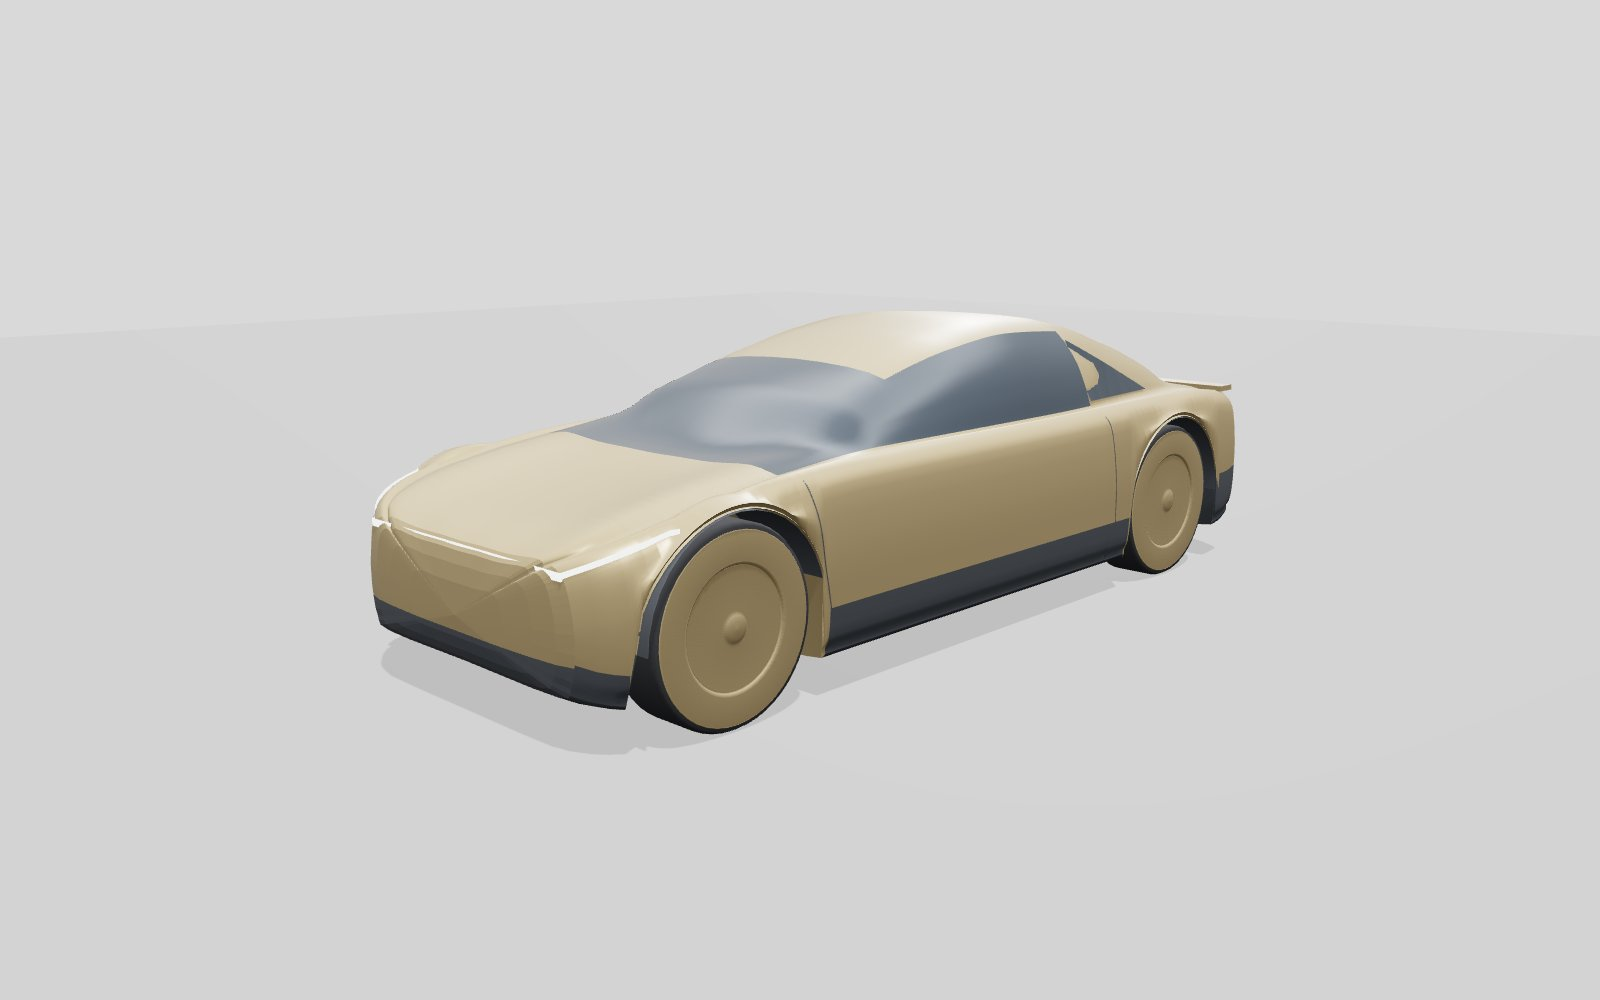
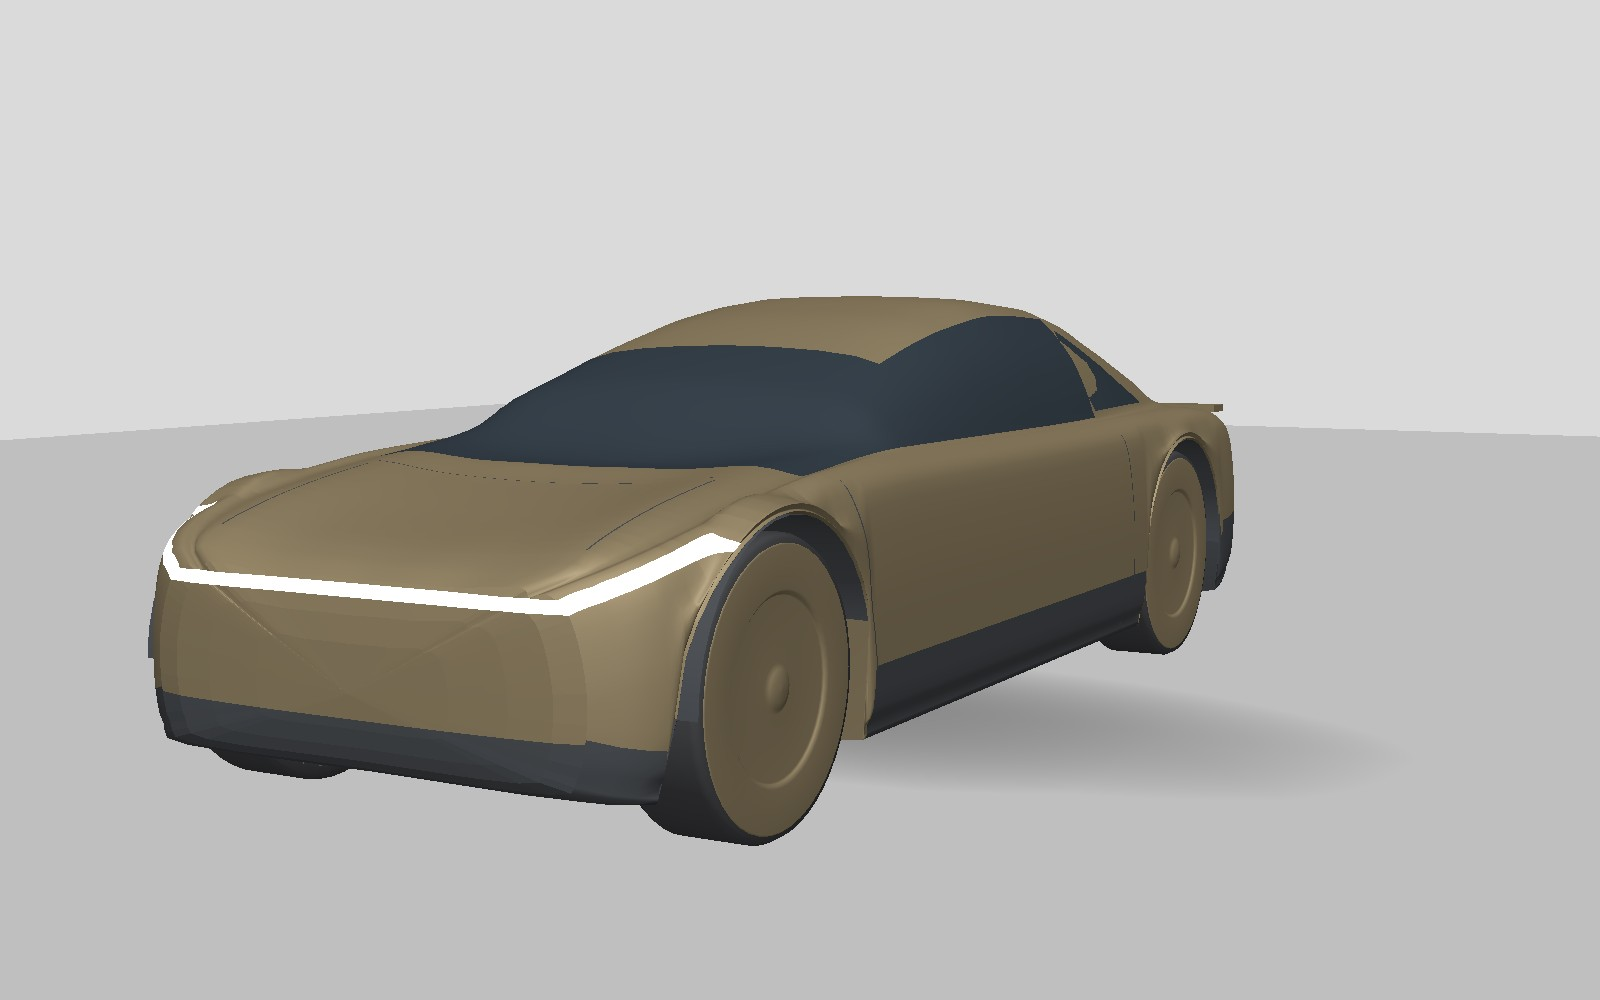
feat(world): matte Cybercab paint and hood and fender shut lines (#107)
Champagne body and covers lose the clearcoat hotspot. The hood shut
runs crest to crest on the lofted ring, and each front fender has a
trim shut just outside the paint. The front light bar is offset 3 mm
so its triangle interiors stay outside the shell.

Changed region(s): [[0.0938, 0.279, 0.875, 0.868]]

diff --git a/jevpilot_vision/web/semif-world/cybercab.js b/jevpilot_vision/web/semif-world/cybercab.js
@@ -1,6 +1,6 @@
-// The Cybercab-style hero (#90), rebuilt from photos of the 2024 show car (Wikimedia Commons, see
-// docs/visual/cybercab/README.md) with the img2threejs workflow: analysis, spec, passes reviewed
-// against the references. No Tesla emblems or lettering.
+// The Cybercab-style hero (#90, finish pass #107), rebuilt from photos of the 2024 show car
+// (Wikimedia Commons, see docs/visual/cybercab/README.md) with the img2threejs workflow: analysis,
+// spec, passes reviewed against the references. No Tesla emblems or lettering.
 //
 // One lofted shell carries the whole body: every section is a custom outline (sill, a side drawn in
 // toward the shoulder, then either the hood -- round fender crests, a valley between -- or a
@@ -232,6 +232,8 @@ function shell(m) {
   parts.add(m.clad, caps.clad);
   parts.add(m.quarter, quarterWindow(rings, zs));
   parts.add(m.well, doorLines(rings, zs));
+  parts.add(m.well, hoodSeam(rings, zs));
+  parts.add(m.well, fenderSeams());
   parts.add(m.lens, frontLightBar(rings, zs));
   return parts;
 }
@@ -261,21 +263,175 @@ function outerAt(ring, y, limit = Infinity) {
   return best;
 }
 
-// The front light bar, laid on the shell: just under the hood's leading edge across the domed nose
-// and along each fender's side as the edge rises toward the windscreen.
-function frontLightBar(rings, zs) {
-  const barY = (z) => shoulder(z) - 0.03;
-  const right = [];
-  for (let i = 0; i < zs.length && zs[i] < -1.95; i++) {
-    const x = outerAt(rings[i], barY(zs[i]));
-    if (x !== null) right.push([x + 0.007, barY(zs[i]), zs[i]]);
+// z of the nose-cap triangle under (x, y). Same rows as the cap in shell(), so the bar tracks the
+// mesh rather than the quarter circle the rows only sample. Forward is -z. Null off the cap.
+function capTriangles(ring, z0) {
+  const ys = ring.map((p) => p[1]);
+  const cy = Math.min(...ys) + 0.4 * (Math.max(...ys) - Math.min(...ys));
+  const dz = -(L2 + NOSE0);
+  const rows = [1, 0.88, 0.7, 0.45].map((k) => {
+    const depth = Math.sqrt(Math.max(0, 1 - k * k));
+    return ring.map(([rx, ry]) => [rx * k, cy + (ry - cy) * k, z0 + dz * depth]);
+  });
+  const centre = [0, cy, z0 + dz];
+  const tris = [];
+  for (let k = 0; k < ring.length; k++) {
+    const k1 = (k + 1) % ring.length;
+    for (let r = 0; r < rows.length - 1; r++) {
+      tris.push([rows[r][k], rows[r][k1], rows[r + 1][k]], [rows[r][k1], rows[r + 1][k1], rows[r + 1][k]]);
+    }
+    tris.push([rows[rows.length - 1][k], rows[rows.length - 1][k1], centre]);
   }
-  if (!right.length) return { positions: [], index: [] };
-  const [x0, y0] = right[0];
+  return tris;
+}
+
+// Most-forward z of the cap under (x, y). Null when (x, y) misses every cap triangle.
+function capForwardZ(tris, x, y) {
+  let skin = null;
+  for (const [a, b, c] of tris) {
+    const den = (b[1] - c[1]) * (a[0] - c[0]) + (c[0] - b[0]) * (a[1] - c[1]);
+    if (Math.abs(den) < 1e-10) continue;
+    const w0 = ((b[1] - c[1]) * (x - c[0]) + (c[0] - b[0]) * (y - c[1])) / den;
+    const w1 = ((c[1] - a[1]) * (x - c[0]) + (a[0] - c[0]) * (y - c[1])) / den;
+    const w2 = 1 - w0 - w1;
+    if (w0 < -1e-3 || w1 < -1e-3 || w2 < -1e-3) continue;
+    const z = w0 * a[2] + w1 * b[2] + w2 * c[2];
+    if (skin === null || z < skin) skin = z;
+  }
+  return skin;
+}
+
+// The front light bar. The offset is 3 mm: 2 mm left the tightest quad interiors inside the lofted
+// face, because the sampled ring sits inside that face. Stations are 3 mm apart so a quad does not
+// cut the fender's plan curve. A flat offset from NOSE0 sinks the nose into the cap.
+function frontLightBar(rings, zs) {
+  const h = 0.035, gap = 0.003, rows = 24;
+  const barY = (z) => shoulder(z) - 0.03;
+  const ringAt = (z) => {
+    let i = 0;
+    while (i < zs.length - 2 && zs[i + 1] < z) i++;
+    const t = Math.min(1, Math.max(0, (z - zs[i]) / (zs[i + 1] - zs[i] || 1)));
+    return rings[i].map((p, k) => {
+      const q = rings[i + 1][k];
+      return [p[0] + (q[0] - p[0]) * t, p[1] + (q[1] - p[1]) * t];
+    });
+  };
+  const columnAt = (z) => {
+    const ring = ringAt(z), y = barY(z), col = [];
+    for (let k = 0; k <= rows; k++) {
+      const yy = y - h / 2 + (h * k) / rows;
+      const x = outerAt(ring, yy);
+      if (x === null) return null;
+      col.push([x + gap, yy, z]);
+    }
+    return col;
+  };
+  const right = [];
+  for (let z = -1.96; z > zs[0] + 0.001; z -= 0.003) {
+    const col = columnAt(z);
+    if (col) right.push(col);
+  }
+  const nose = columnAt(zs[0]);
+  if (!nose) return { positions: [], index: [] };
+  right.push(nose);
+  const tris = capTriangles(rings[0], zs[0]);
+  const skin = nose.map((p) => [p[0] - gap, p[1]]);
+  const span = Math.max(...skin.map((p) => p[0]));
+  const steps = Math.max(1, Math.ceil((span * 2) / 0.003));
   const across = [];
-  for (let s = 1; s > -1; s -= 0.1) across.push([s * x0, y0, NOSE0 - 0.012]);
-  const left = right.map(([x, y, z]) => [-x, y, z]);
-  return strip([...right.slice().reverse(), ...across, ...left], 0.035);
+  for (let s = 0; s <= steps; s++) {
+    const sign = Math.max(-0.998, Math.min(0.998, 1 - 2 * (s / steps)));
+    const col = [];
+    let ok = true;
+    for (const [sx, y] of skin) {
+      const x = sx * sign;
+      const z = capForwardZ(tris, x, y);
+      if (z === null) { ok = false; break; }
+      col.push([x, y, z - gap]);
+    }
+    if (ok) across.push(col);
+  }
+  const left = [...right].reverse().map((col) => col.map((p) => [-p[0], p[1], p[2]]));
+  const columns = [...right, ...across, ...left];
+  const positions = [], index = [], n = rows + 1;
+  columns.forEach((col, i) => {
+    for (const p of col) positions.push(...p);
+    if (!i) return;
+    for (let k = 0; k < rows; k++) {
+      const a = (i - 1) * n + k, b = i * n + k;
+      index.push(a, b, a + 1, b, b + 1, a + 1);
+    }
+  });
+  return { positions, index };
+}
+
+// A 6 mm dark band through samples, `across` a unit vector in the band's width, lifted 2 mm off
+// the shell so it reads as a shut line rather than z-fighting the paint.
+function seam(samples, across) {
+  const positions = [], index = [], w = 0.003, lift = 0.002;
+  samples.forEach(([x, y, z], i) => {
+    positions.push(
+      x + across[0] * w, y + across[1] * w + lift, z + across[2] * w,
+      x - across[0] * w, y - across[1] * w + lift, z - across[2] * w,
+    );
+    if (i) {
+      const a = (i - 1) * 2, b = i * 2;
+      index.push(a, b, a + 1, b, b + 1, a + 1);
+    }
+  });
+  return { positions, index };
+}
+
+// The hood shut: crest to crest on the lofted ring, just ahead of the windscreen. The coarse
+// outline sits off that ring (inside it near the crests, above it in the valley).
+function hoodSeam(rings, zs) {
+  const z = -1.52;
+  let i = 0;
+  while (i < zs.length - 2 && zs[i + 1] < z) i++;
+  const t = Math.min(1, Math.max(0, (z - zs[i]) / (zs[i + 1] - zs[i] || 1)));
+  const ring = rings[i].map((p, k) => {
+    const q = rings[i + 1][k];
+    return [p[0] + (q[0] - p[0]) * t, p[1] + (q[1] - p[1]) * t];
+  });
+  const mid = ring.length / 2; // top centre; the right half is the first half of the ring
+  let crest = 0;
+  for (let k = 1; k <= mid; k++) if (ring[k][1] > ring[crest][1]) crest = k;
+  const right = [];
+  for (let k = crest; k < mid; k++) {
+    for (let s = 0; s < 4; s++) {
+      const u = s / 4;
+      right.push([
+        ring[k][0] + (ring[k + 1][0] - ring[k][0]) * u,
+        ring[k][1] + (ring[k + 1][1] - ring[k][1]) * u,
+        z,
+      ]);
+    }
+  }
+  right.push([ring[mid][0], ring[mid][1], z]);
+  // right runs from the right crest to the centre. Mirror it, drop the shared centre, then
+  // walk back through the centre to the right crest. Reversing the mirror first jumps the valley.
+  const left = right.slice(0, -1).map(([x, y, zz]) => [-x, y, zz]);
+  const full = left.concat([...right].reverse());
+  return seam(full, [0, 0, 1]);
+}
+
+// The fender shut: along each front crest, from the nose of the arch back to the hood shut.
+function fenderSeams() {
+  const positions = [], index = [];
+  for (const side of [1, -1]) {
+    const samples = [];
+    for (let i = 0; i <= 18; i++) {
+      const z = -2.18 + (i * 0.62) / 18; // -2.18 .. -1.56, clear of the hood shut at -1.52
+      const crest = Math.min(0.62, half(z) - 0.2);
+      // The outline's crest is shoulder + 12 mm. Sampling the shoulder puts the band inside the paint.
+      samples.push([side * crest, shoulder(z) + 0.012, z]);
+    }
+    const part = seam(samples, [side, 0, 0]);
+    const base = positions.length / 3;
+    positions.push(...part.positions);
+    for (const i of part.index) index.push(base + i);
+  }
+  return { positions, index };
 }
 
 // The door shut lines: a 6 mm dark band on each side, at the door's front edge (leaning back at
@@ -405,8 +561,12 @@ function wheel(name, x, z, front, m) {
 
 function mats() {
   return {
-    paint: physical(C.champagne, { metalness: 0.55, roughness: 0.4, clearcoat: 0.2, clearcoatRoughness: 0.35 }),
-    cover: physical(C.champagne, { metalness: 0.5, roughness: 0.46, clearcoat: 0.1, clearcoatRoughness: 0.4, side: 2 }),
+    // Matte champagne (#107). Painted metal in the img2threejs material record is a dielectric
+    // coat (roughness up to 0.7, clearcoat free to go to 0). This host still classifies "the paint"
+    // as metalness >= 0.5, so the flake stays and the gloss hotspot is what goes: roughness at the
+    // top of that range, clearcoat almost off. The colour stays PALETTE.car.champagne.
+    paint: physical(C.champagne, { metalness: 0.55, roughness: 0.68, clearcoat: 0.04, clearcoatRoughness: 0.35 }),
+    cover: physical(C.champagne, { metalness: 0.5, roughness: 0.7, clearcoat: 0.04, clearcoatRoughness: 0.35, side: 2 }),
     glass: physical(C.glass, { name: "Glass", metalness: 0.3, roughness: 0.05, clearcoat: 1 }),
     quarter: physical(C.glass, { metalness: 0.35, roughness: 0.08, clearcoat: 1, side: 2 }),
     clad: material(C.trim, { roughness: 0.62, metalness: 0.1 }),

diff --git a/jevpilot_vision/web/semif-world/kit.js b/jevpilot_vision/web/semif-world/kit.js
@@ -51,7 +51,7 @@ export const PALETTE = {
     leather: "#7a6458",
     chrome: "#c9cdd2",
     plate: "#e7e4dc",
-    // The Cybercab (#90): satin champagne paint. Its glass and cladding use `glass` and `trim`:
+    // The Cybercab (#90, #107): matte champagne paint. Its glass and cladding use `glass` and `trim`:
     // darker reads as a pedestrian in the camera masks until #30 retires them.
     champagne: "#c9b48a",
   },

diff --git a/tests/test_vehicles.py b/tests/test_vehicles.py
@@ -187,3 +187,87 @@ def test_issue90_the_cybercab_has_big_wheels_at_the_corners_and_a_painted_roof()
     assert got["maxZ"] - got["shellTail"] >= 0.04, "the duckbill lip overhangs the tail face"
     assert got["bar"] and got["gap"] < 0.03, "the light bar lies on the body, not in the air"
 
+
+def test_issue107_the_paint_is_matte_and_the_hood_and_fenders_are_split():
+    """#107: matte paint, and the shut lines and the light bar sit just outside the paint faces.
+
+    Distance is to the containing face, including the interior of each light-bar triangle and
+    each hood-shut triangle. A vertex can sit outside the paint while the quad between two
+    stations cuts back through it.
+    """
+    got = _render(
+        _BOX
+        + "const K = await mod('kit.js'); const car = V.buildHero('cybercab');"
+        "const pieces = all(car).filter((n) => n.geometry && n.geometry.attributes.position);"
+        "const colour = (n) => { const c = n.material && n.material.color; return typeof c === 'string' ? c : c && c.hex; };"
+        "const body = all(car).find((n) => n.name === 'body');"
+        "const faces = body.children.filter((n) => colour(n) === K.PALETTE.car.champagne).flatMap((n) => {"
+        "  const p = n.geometry.attributes.position.array; const idx = n.geometry.index; const ids = idx ? Array.from(idx.array || idx) : null; const o = [];"
+        "  const push = (i0, i1, i2) => o.push([[p[3*i0], p[3*i0+1], p[3*i0+2]], [p[3*i1], p[3*i1+1], p[3*i1+2]], [p[3*i2], p[3*i2+1], p[3*i2+2]]]);"
+        "  if (ids) for (let i = 0; i < ids.length; i += 3) push(ids[i], ids[i+1], ids[i+2]); else for (let v = 0; v < p.length / 3; v += 3) push(v, v+1, v+2); return o; });"
+        "const front = faces.filter((t) => Math.min(t[0][2], t[1][2], t[2][2]) < -1.85);"
+        "const verts = (hex) => pieces.filter((n) => colour(n) === hex).flatMap((n) => { const p = n.geometry.attributes.position.array, o = [];"
+        "  for (let i = 0; i < p.length; i += 3) o.push([p[i], p[i+1], p[i+2]]); return o; });"
+        "const bary = (u, v, a0, a1, b0, b1, c0, c1) => { const den = (b1-c1)*(a0-c0)+(c0-b0)*(a1-c1); if (Math.abs(den) < 1e-10) return null;"
+        "  const w0 = ((b1-c1)*(u-c0)+(c0-b0)*(v-c1))/den, w1 = ((c1-a1)*(u-c0)+(a0-c0)*(v-c1))/den, w2 = 1-w0-w1;"
+        "  return (w0 < -1e-3 || w1 < -1e-3 || w2 < -1e-3) ? null : [w0, w1, w2]; };"
+        "const skinY = (p) => { let best = null; for (const [a,b,c] of faces) {"
+        "  if (a[2] < -2.4 && b[2] < -2.4 && c[2] < -2.4) continue; if (a[2] > -1.2 && b[2] > -1.2 && c[2] > -1.2) continue;"
+        "  const w = bary(p[0], p[2], a[0], a[2], b[0], b[2], c[0], c[2]); if (!w) continue;"
+        "  const y = w[0]*a[1]+w[1]*b[1]+w[2]*c[1]; if (best === null || y > best) best = y; } return best; };"
+        "const skinZ = (p) => { let best = null; for (const [a,b,c] of front) { if (Math.min(a[2], b[2], c[2]) > -2.1) continue;"
+        "  const w = bary(p[0], p[1], a[0], a[1], b[0], b[1], c[0], c[1]); if (!w) continue;"
+        "  const z = w[0]*a[2]+w[1]*b[2]+w[2]*c[2]; if (best === null || z < best) best = z; } return best; };"
+        "const skinX = (p) => { const sign = Math.sign(p[0]) || 1; let best = null; for (const [a,b,c] of front) {"
+        "  if (a[0]*sign < 0.05 && b[0]*sign < 0.05 && c[0]*sign < 0.05) continue; if (Math.min(a[2], b[2], c[2]) > -1.9) continue;"
+        "  const w = bary(p[1], p[2], a[1], a[2], b[1], b[2], c[1], c[2]); if (!w) continue;"
+        "  const x = w[0]*a[0]+w[1]*b[0]+w[2]*c[0]; if (best === null || x*sign > best*sign) best = x; } return best; };"
+        "const champ = pieces.filter((n) => colour(n) === K.PALETTE.car.champagne);"
+        "const tv = verts(K.PALETTE.car.trim), lens = verts(K.PALETTE.car.lens);"
+        "const hood = tv.filter((p) => Math.abs(p[2] + 1.52) < 0.006 && p[1] > 0.85);"
+        "const fender = tv.filter((p) => p[1] > 0.7 && p[2] < -1.55 && p[2] > -2.20 && Math.abs(Math.abs(p[0]) - 0.62) < 0.02);"
+        "const nose = lens.filter((p) => p[2] < -2.331);"
+        "const side = lens.filter((p) => p[2] >= -2.331 && p[2] < -1.95 && Math.abs(p[0]) > 0.2);"
+        "const cents = pieces.filter((n) => colour(n) === K.PALETTE.car.lens).flatMap((n) => {"
+        "  const p = n.geometry.attributes.position.array; const idx = n.geometry.index; const ids = idx ? Array.from(idx.array || idx) : null; const o = [];"
+        "  const push = (i0, i1, i2) => { const a = [p[3*i0], p[3*i0+1], p[3*i0+2]], b = [p[3*i1], p[3*i1+1], p[3*i1+2]], c = [p[3*i2], p[3*i2+1], p[3*i2+2]];"
+        "    o.push([(a[0]+b[0]+c[0])/3, (a[1]+b[1]+c[1])/3, (a[2]+b[2]+c[2])/3]); };"
+        "  if (ids) for (let i = 0; i < ids.length; i += 3) push(ids[i], ids[i+1], ids[i+2]); else for (let v = 0; v < p.length / 3; v += 3) push(v, v+1, v+2); return o; });"
+        "const noseC = cents.filter((p) => p[2] < -2.3315);"
+        "const sideC = cents.filter((p) => p[2] >= -2.3295 && p[2] < -1.95 && Math.abs(p[0]) > 0.2);"
+        "const onHood = (p) => Math.abs(p[2] + 1.52) < 0.006 && p[1] > 0.85;"
+        "const hoodC = pieces.filter((n) => colour(n) === K.PALETTE.car.trim).flatMap((n) => {"
+        "  const p = n.geometry.attributes.position.array; const idx = n.geometry.index; const ids = idx ? Array.from(idx.array || idx) : null; const o = [];"
+        "  const push = (i0, i1, i2) => { const a = [p[3*i0], p[3*i0+1], p[3*i0+2]], b = [p[3*i1], p[3*i1+1], p[3*i1+2]], c = [p[3*i2], p[3*i2+1], p[3*i2+2]];"
+        "    if (!onHood(a) || !onHood(b) || !onHood(c)) return;"
+        "    o.push([(a[0]+b[0]+c[0])/3, (a[1]+b[1]+c[1])/3, (a[2]+b[2]+c[2])/3]); };"
+        "  if (ids) for (let i = 0; i < ids.length; i += 3) push(ids[i], ids[i+1], ids[i+2]); else for (let v = 0; v < p.length / 3; v += 3) push(v, v+1, v+2); return o; });"
+        "const off = (p) => { const s = skinY(p); return s !== null && p[1] - s > 0.001 && p[1] - s < 0.008; };"
+        "const band = (lo, hi) => (g) => g !== null && g > lo && g < hi;"
+        "const ahead = (p) => { const s = skinZ(p); return band(0.0002, 0.007)(s === null ? null : s - p[2]); };"
+        "const outboard = (p) => { const s = skinX(p); return band(0.0002, 0.007)(s === null ? null : (p[0]-s)*Math.sign(p[0])); };"
+        "const face = (pts, gap) => { let hit = 0, min = Infinity, max = -Infinity; for (const p of pts) { const g = gap(p); if (g === null) continue; hit++; if (g < min) min = g; if (g > max) max = g; } return { n: pts.length, hit, min, max }; };"
+        "out({ matte: champ.length > 0 && champ.every((n) => n.material.roughness >= 0.62 && (n.material.clearcoat ?? 1) <= 0.05 && n.material.metalness >= 0.5),"
+        "  hoodL: hood.some((p) => p[0] < -0.3), hoodR: hood.some((p) => p[0] > 0.3),"
+        "  fenderL: fender.some((p) => p[0] < -0.45), fenderR: fender.some((p) => p[0] > 0.45),"
+        "  hoodOut: hood.length >= 80 && hood.every(off), fenderOut: fender.length >= 60 && fender.every(off),"
+        "  noseOut: nose.length >= 16 && nose.every(ahead) && Math.min(...nose.map((p) => p[0])) < -0.4 && Math.max(...nose.map((p) => p[0])) > 0.4,"
+        "  sideOut: side.length >= 40 && side.every(outboard),"
+        "  noseFace: face(noseC, (p) => { const s = skinZ(p); return s === null ? null : s - p[2]; }),"
+        "  sideFace: face(sideC, (p) => { const s = skinX(p); return s === null ? null : (p[0]-s)*Math.sign(p[0]); }),"
+        "  hoodFace: face(hoodC, (p) => { const s = skinY(p); return s === null ? null : p[1] - s; }) });"
+    )
+    assert got["matte"], "champagne body and covers are matte: rough, almost no clearcoat"
+    assert got["hoodL"] and got["hoodR"], "a shut line crosses the hood ahead of the windscreen"
+    assert got["fenderL"] and got["fenderR"], "each front fender has a shut line"
+    assert got["hoodOut"], "the hood shut line sits just outside the paint"
+    assert got["fenderOut"], "the fender shut lines sit just outside the paint"
+    assert got["noseOut"], "the nose light-bar vertices sit just ahead of the nose skin"
+    assert got["sideOut"], "the light-bar vertices stay just outside the front fenders"
+    for name, band in (("noseFace", got["noseFace"]), ("sideFace", got["sideFace"])):
+        assert band["n"] >= 1000 and band["hit"] == band["n"], band
+        assert 0.0002 < band["min"] and band["max"] < 0.007, (name, band)
+    hood_face = got["hoodFace"]
+    assert hood_face["n"] >= 80 and hood_face["hit"] == hood_face["n"], hood_face
+    assert 0.001 < hood_face["min"] and hood_face["max"] < 0.008, hood_face
+

diff --git a/docs/visual/cybercab/README.md b/docs/visual/cybercab/README.md
@@ -38,10 +38,10 @@
 |---|---|
 | ![停車](ingame-parked.jpg) | ![自駕](ingame-driving.jpg) |
 
-單張：[側面](side.jpg)、[前 3/4](front34.jpg)、[背面](rear.jpg)；舊版：[側面](before-side.jpg)、[前 3/4](before-front34.jpg)、[背面](before-rear.jpg)。
+單張：[側面](side.jpg)、[前 3/4](front34.jpg)、[背面](rear.jpg) 是 #107 的霧面與分割線。舊版：[側面](before-side.jpg)、[前 3/4](before-front34.jpg)、[背面](before-rear.jpg)。本機瀏覽器在傳 Three.js 時連線被重置，所以這三張是同一套網格的著色棚拍，不是頁面裡的 WebGL。
 
 ## 和照片還有差距的地方
 
 - **顏色比照片淡**：玻璃、黑色下飾板和輪拱內襯沿用色盤的 `glass`、`trim`（深灰），尾燈沿用 `taillight`（暗紫紅），只加上同色的自發光。照片裡它們接近全黑和亮紅，但更深的黑會落進相機的行人遮罩，亮紅會落進紅燈遮罩。依 AGENTS.md，在 #30 撤回這些遮罩配色之前，不新增例外；#30 之後再調回照片的顏色。
 - 玻璃是單一顏色，沒有車內的層次。
-- 只有前、後門縫線，沒有引擎蓋和翼子板的分割線。
+- **#107**：香檳金改成霧面（車身 roughness 0.68、輪蓋 0.70、clearcoat 0.04）。引擎蓋前緣與左右前翼子板各有一條 `trim` 分割線，落在烤漆面外約 2 mm。前燈條施工外偏 3 mm，三角面重心的中位數是 3 mm，實測約 0.5–5.6 mm，都在殼外。色票沒有新增。
